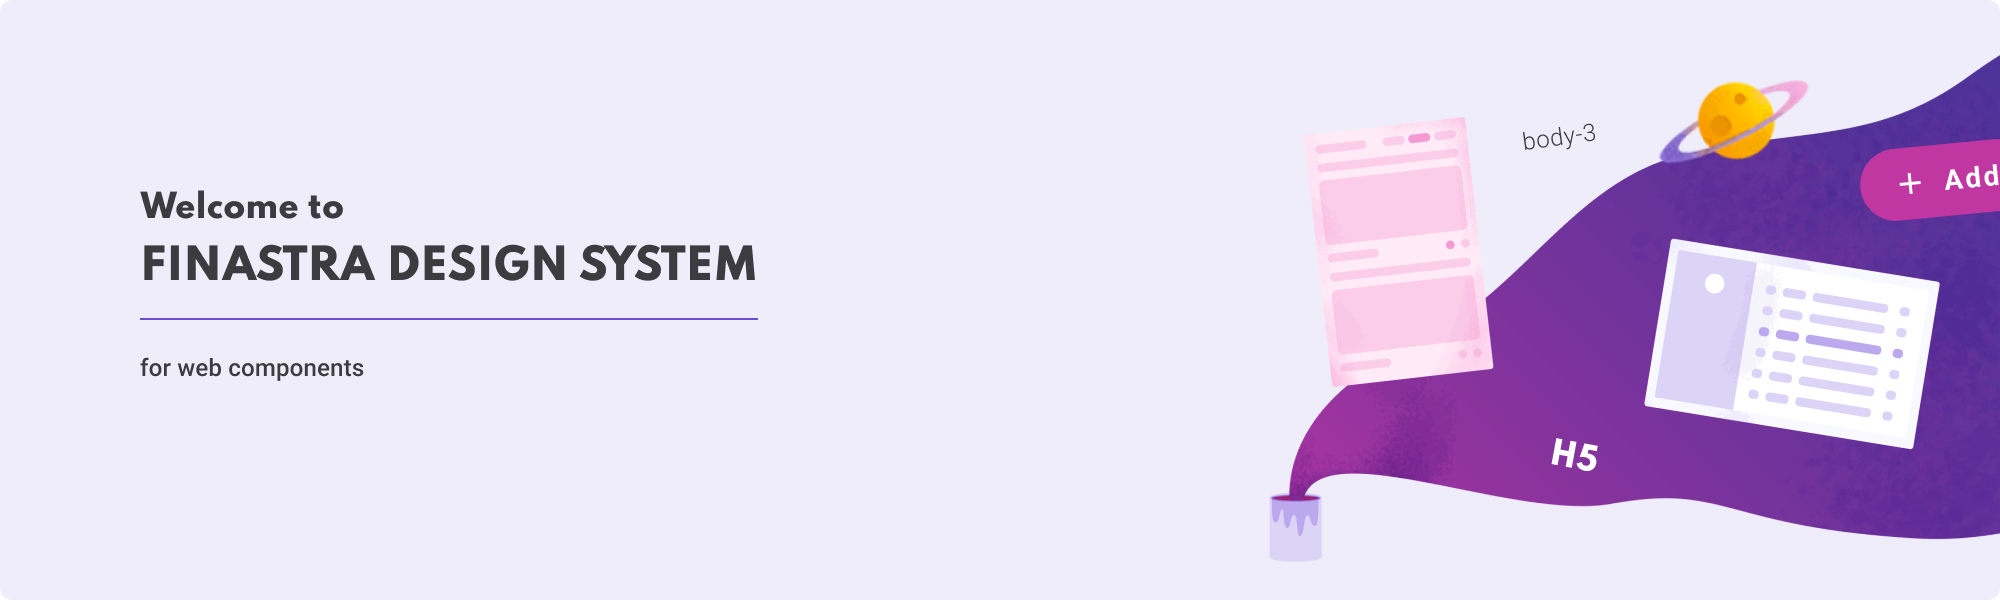
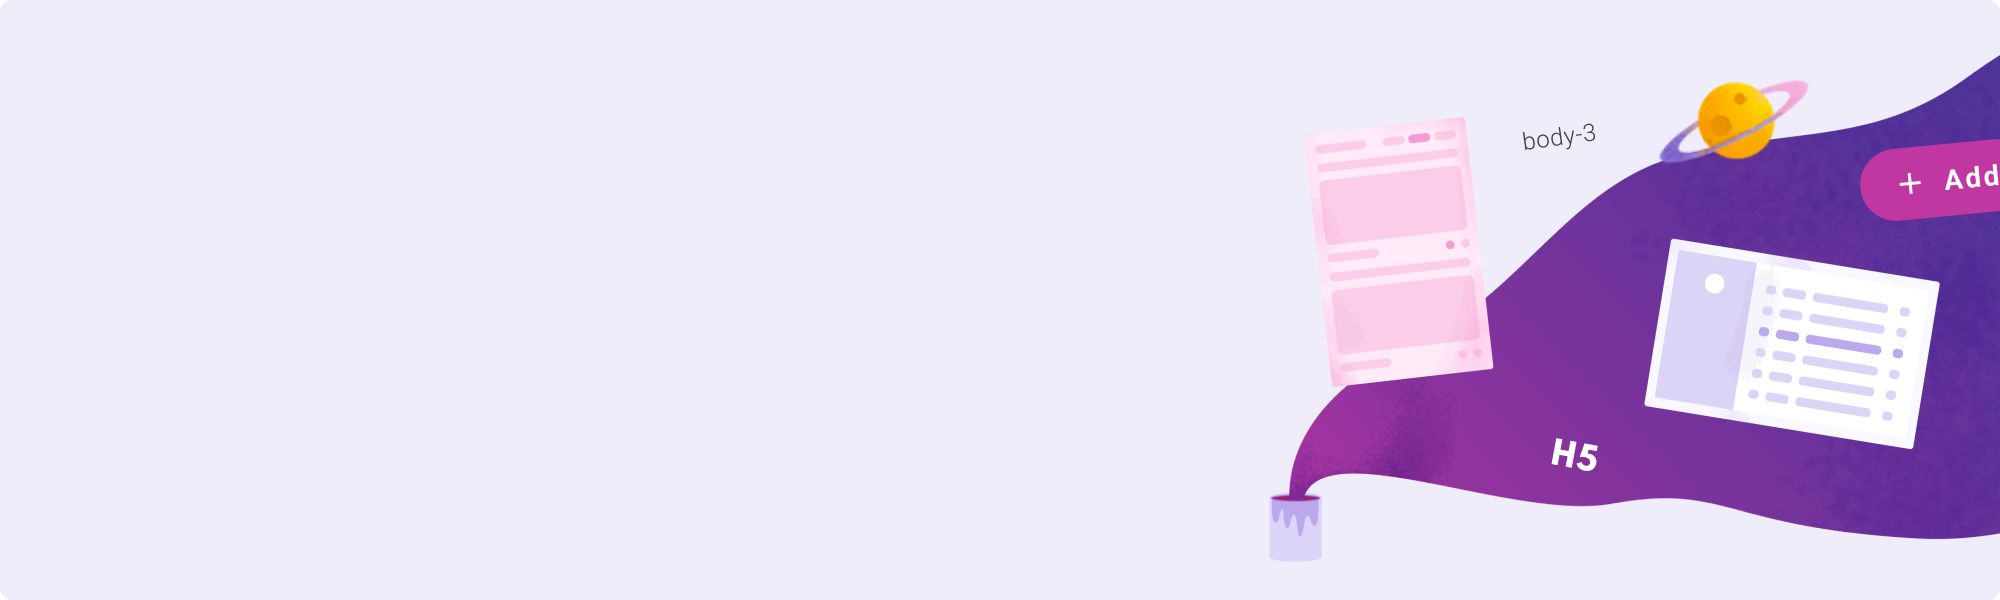
fix(wc): improve dark theme support

diff --git a/.storybook/preview-body.html b/.storybook/preview-body.html
@@ -14,8 +14,22 @@
     background: var(--fds-background);
   }
 
+  .sbdocs.sbdocs-wrapper {
+    background: var(--fds-surface);
+  }
+
   .docs-story {
     background: var(--fds-background);
+  }
+
+  .sbdocs.sbdocs-h1,
+  .sbdocs.sbdocs-h2,
+  .sbdocs.sbdocs-h3,
+  .sbdocs.sbdocs-h4,
+  .sbdocs.sbdocs-h5,
+  .sbdocs.sbdocs-h6,
+  .sbdocs.sbdocs-p {
+    color: var(--fds-on-background);
   }
 
   .sbdocs-title {

diff --git a/.storybook/styles.scss b/.storybook/styles.scss
@@ -1,3 +1,14 @@
 @use '../themes/fds-theme/light' with ($class: 'light-theme');
 @use '../themes/fds-theme/dark' with ($class: 'dark-theme');
 @use '../themes/fds-theme/helpers';
+
+.test {
+    margin: 100px !important;
+}
+
+.welcome-header {
+    background-image: url(../themes/fds-theme/docs/img/title.png);
+    background-size: contain;
+    background-repeat: no-repeat;
+    height: 300px;
+}

diff --git a/.storybook/preview.js b/.storybook/preview.js
@@ -7,8 +7,11 @@ const isDark = typeof window !== `undefined` ? window.matchMedia && window.match
 export const parameters = {
   backgrounds: { disable: true },
   layout: 'centered',
-  docs: {
-    theme: isDark ? themeDark : themeLight,
+  previewTabs: {
+    "storybook/docs/panel": {
+      index: -1
+    },
+    canvas: { title: "Sandbox" }
   },
   options: {
     storySort: {
